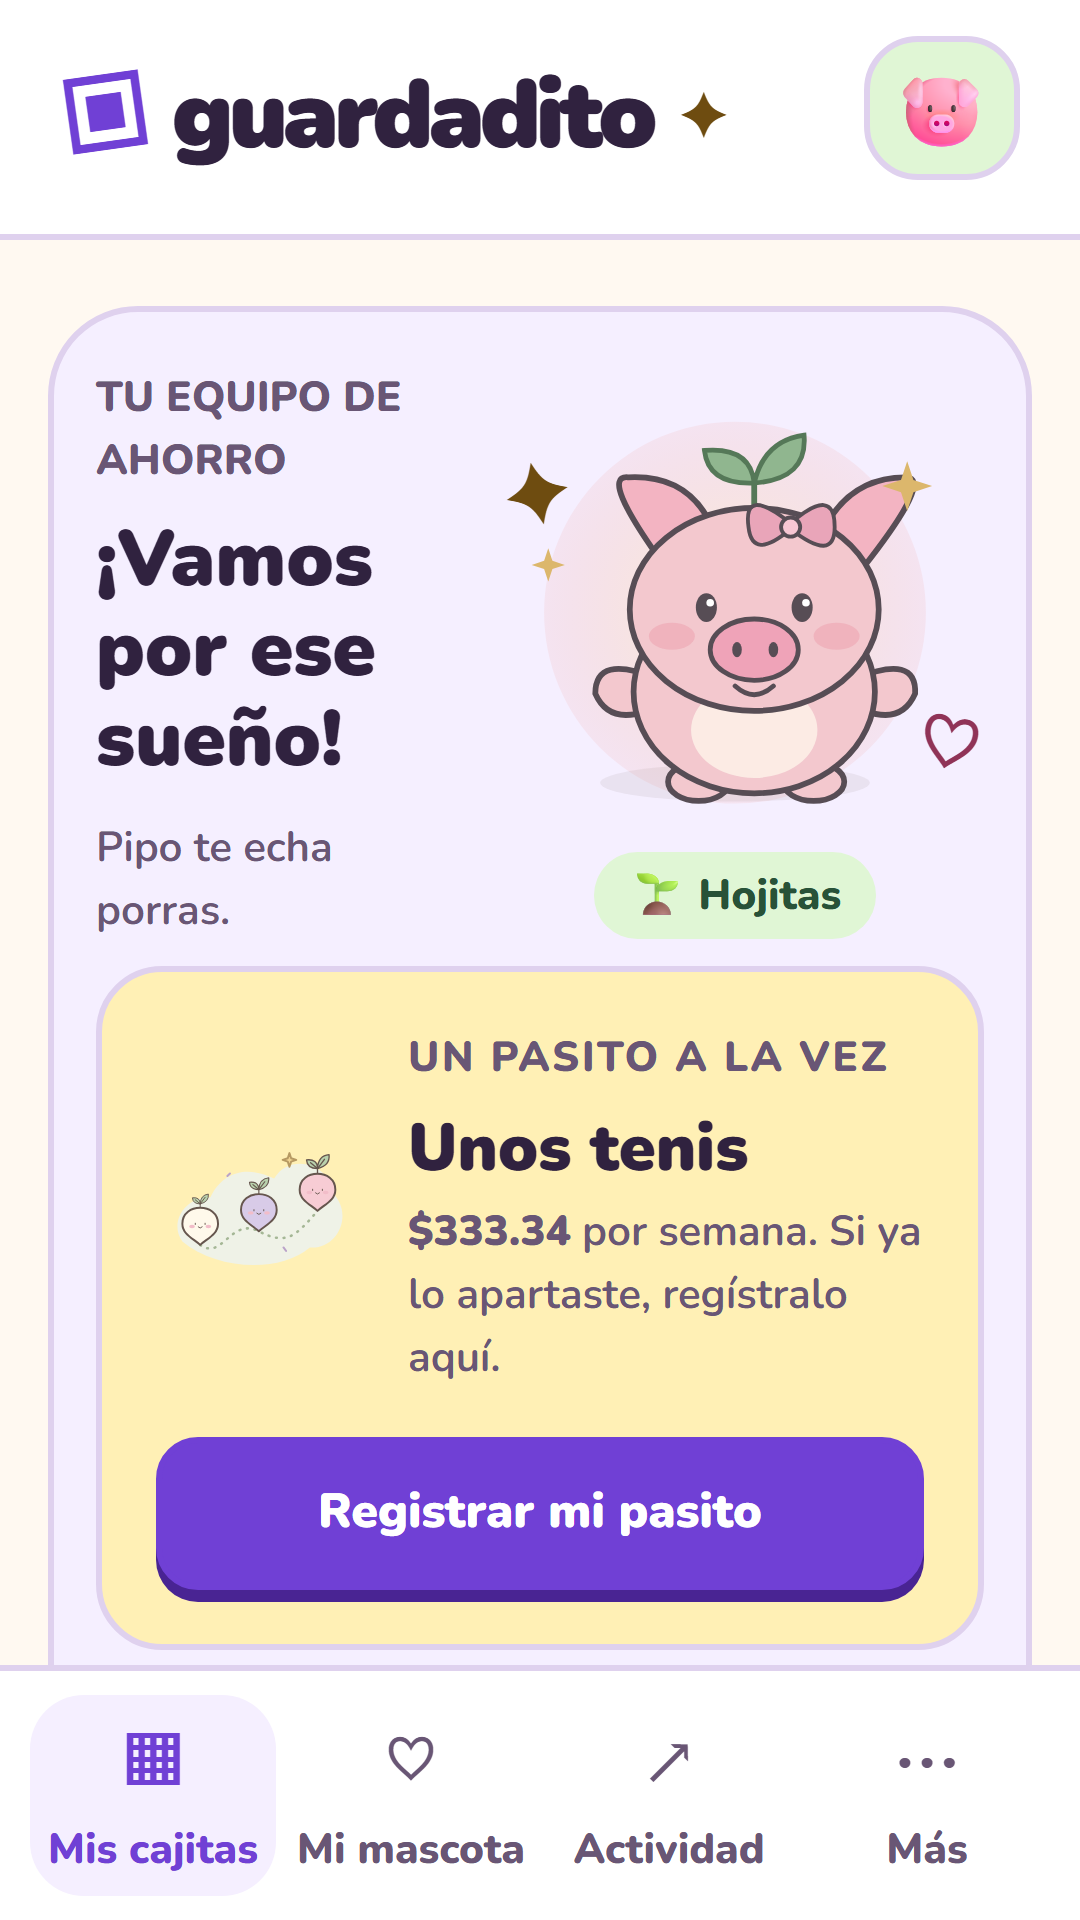
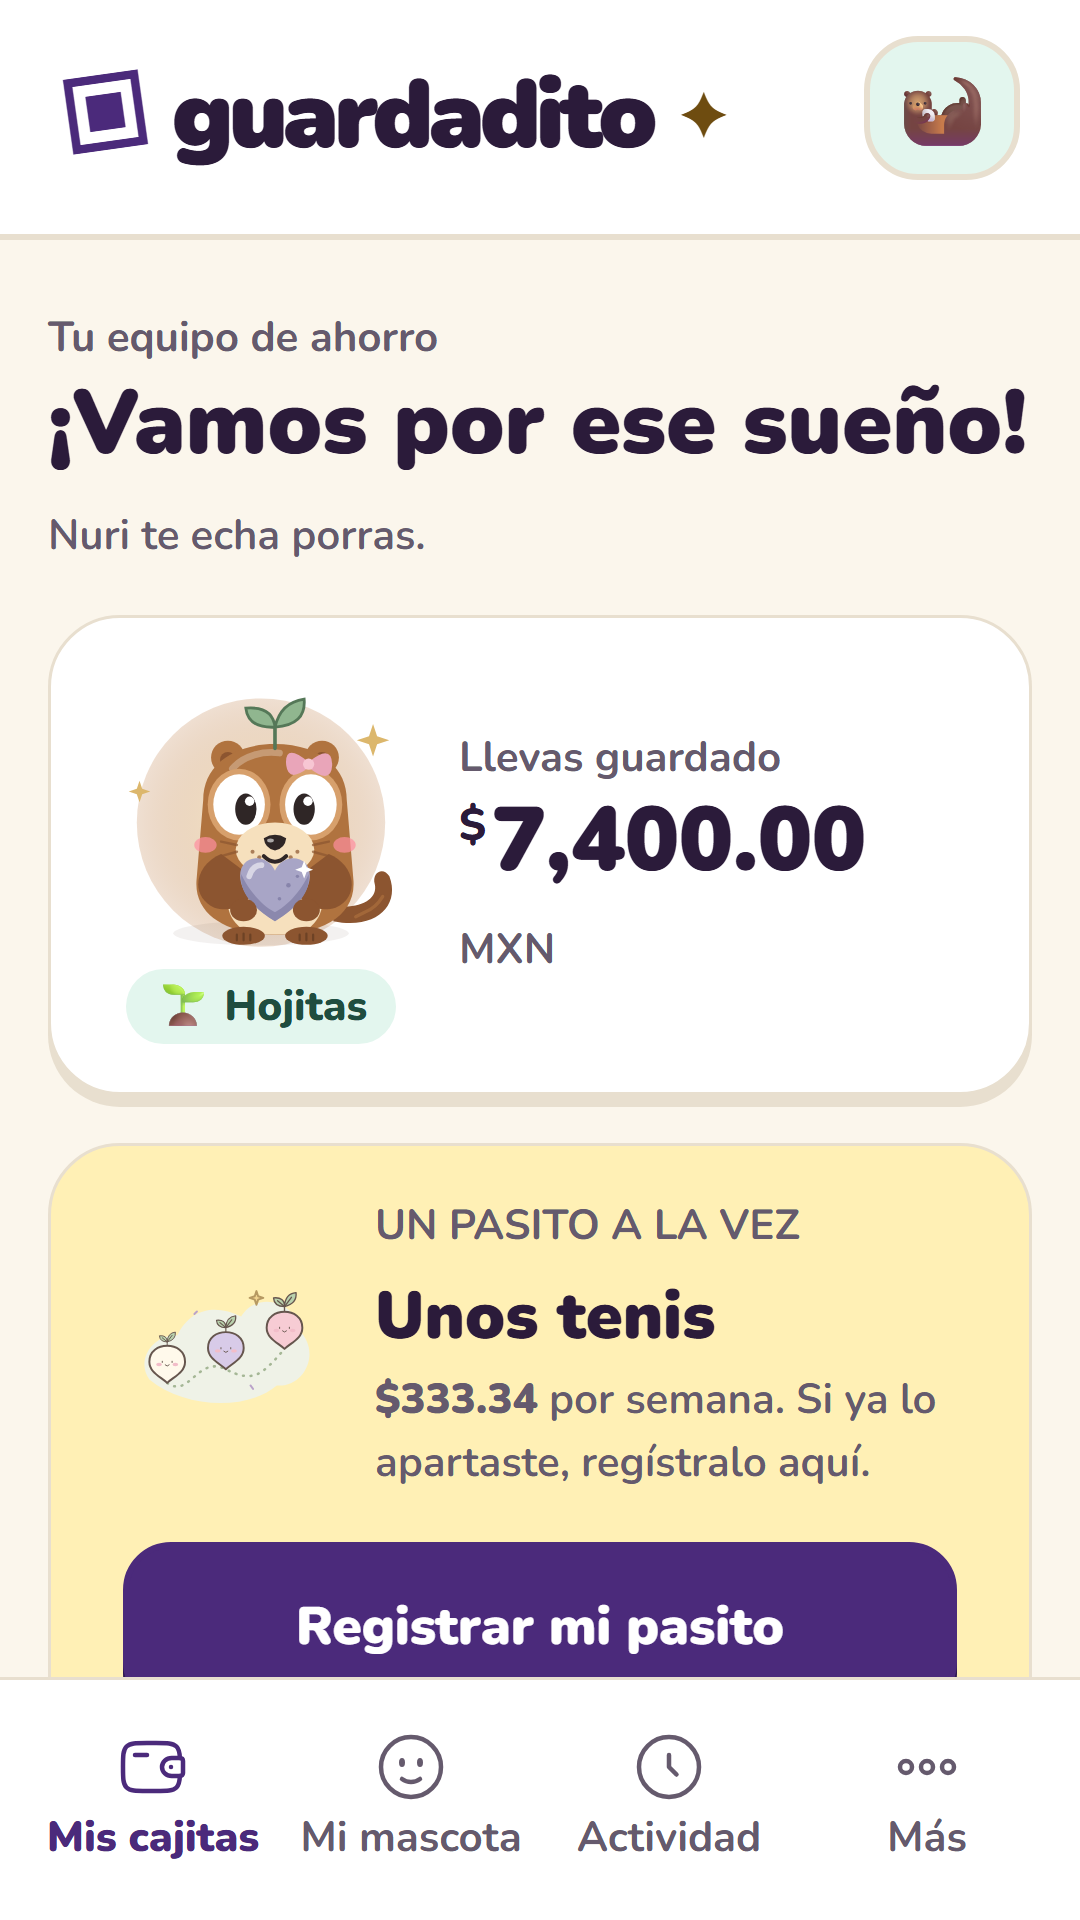
Lista para Play: capturas nuevas, privacidad al día y Android en el CI (v0.18)
- versionCode 18 / 0.18.0.
- Barra de estado DEFAULT (ya no desaparece en modo oscuro) y fondo del
  splash en el color del tema nuevo (#f8f6f1).
- scripts/play-assets.mjs compila la versión pública y toma las capturas del
  rediseño con Nuri; el gráfico destacado usa los colores de la app y la
  mascota tal como la dibuja.
- privacidad.html y borrar-cuenta.html: solo mayores de 18, sin conexión a
  Gmail, el registro de errores que vive en el teléfono, y qué se borra
  exactamente (también lo que registró la pareja).
- docs/play/README.md al día.
- CI: un trabajo que compila el APK de Android en cada cambio.

diff --git a/public/privacidad.html b/public/privacidad.html
@@ -72,7 +72,7 @@
     <main>
       <p class="muted">Guardadito · Aviso de privacidad</p>
       <h1>Tu ahorro es tuyo. Tus datos también.</h1>
-      <p class="muted">Última actualización: 18 de octubre de 2026</p>
+      <p class="muted">Última actualización: 24 de octubre de 2026</p>
 
       <p>
         Guardadito es una app para registrar tus metas de ahorro, sola o en
@@ -87,6 +87,11 @@
         mascota se guardan solo en tu teléfono. No los vemos ni salen de él,
         salvo que tú descargues un respaldo.
       </p>
+      <p>
+        Si la app tiene un error, guarda en tu teléfono el mensaje del error
+        (nunca tus cajitas) para que puedas mandárnoslo si nos escribes desde
+        Más → Ayuda y comentarios. No se envía solo.
+      </p>
 
       <h2>Con cuenta, esto es lo que guardamos</h2>
       <div class="table">
@@ -98,7 +103,7 @@
           </tr>
           <tr>
             <td>Correo, nombre y contraseña (la contraseña cifrada)</td>
-            <td>Entrar a tu cuenta y recuperarla</td>
+            <td>Entrar a tu cuenta, confirmar tu correo y recuperarla</td>
             <td>Solo tú. Tu pareja vinculada ve tu nombre.</td>
           </tr>
           <tr>
@@ -150,12 +155,10 @@
         de tu pareja vinculada lea tus datos.
       </p>
 
-      <h2>Conexiones opcionales</h2>
+      <h2>Sin conexiones a otras cuentas</h2>
       <p>
-        Si tú lo activas, Guardadito puede leer los correos de comprobantes de
-        depósito de Nu o Mercado Pago en Gmail (solo lectura). Lo hace para
-        proponerte registrar ese ahorro. Solo se usa el monto y la fecha;
-        puedes desconectarlo cuando quieras.
+        Guardadito no se conecta a tu correo, a tu banco ni a otras apps. Lo
+        que registras lo escribes tú.
       </p>
 
       <h2>Tus derechos y cómo borrar todo</h2>
@@ -167,7 +170,8 @@
         <li>
           <strong>Borrar tu cuenta:</strong> Más → Mi cuenta → «Borrar mi
           cuenta». Se borran la cuenta, tu copia en la nube, tus aportes en
-          cajitas de pareja y el vínculo.
+          cajitas de pareja, las sorpresas que mandaste, tu CLABE, tus códigos
+          sin usar y el vínculo.
           <a href="borrar-cuenta.html">Instrucciones completas</a>.
         </li>
         <li>
@@ -180,19 +184,20 @@
         oposición (ARCO) desde la app o escribiéndonos.
       </p>
 
-      <h2>Menores de edad</h2>
+      <h2>Edad</h2>
       <p>
-        Guardadito puede usarse en familia con un adulto de confianza como
-        guardián. No pedimos más datos de los descritos arriba.
+        Guardadito es para personas mayores de 18 años. No buscamos ni pedimos
+        datos de menores de edad.
       </p>
 
       <h2>Contacto</h2>
       <p>
-        Dudas o solicitudes:
+        Dudas o solicitudes: desde la app en Más → Ayuda y comentarios, o en
         <a href="https://github.com/GERARDOBR01/CAJITAS-/issues"
           >github.com/GERARDOBR01/CAJITAS-/issues</a
-        >. Si cambiamos este aviso, la app y esta página mostrarán la nueva
-        fecha.
+        >
+        (sin escribir datos personales en público). Si cambiamos este aviso,
+        esta página mostrará la nueva fecha.
       </p>
     </main>
   </body>

diff --git a/public/borrar-cuenta.html b/public/borrar-cuenta.html
@@ -75,11 +75,15 @@
           Tu vínculo de pareja, las sorpresas que mandaste, tu CLABE si eras
           guardián, tus avisos de depósito y tus aportes a cajitas en pareja.
         </li>
+        <li>Los códigos de pareja que creaste y nadie usó.</li>
         <li>Los teléfonos registrados para recibir avisos.</li>
       </ul>
       <p>
-        Se borra al momento; no guardamos copias. Las cajitas que están solo en
-        tu teléfono se quedan ahí hasta que desinstales la app. Antes puedes
+        Se borra al momento; no guardamos copias. Lo que registró tu pareja
+        (sus aportes y las sorpresas que te mandó) es de su cuenta y deja de
+        estar vinculado a ti; si quieres que también se borre, pídenoslo. Las
+        cajitas que están solo en tu teléfono se quedan ahí hasta que
+        desinstales la app o las borres al cerrar sesión. Antes puedes
         descargar un respaldo en Más → Respaldo.
       </p>
       <h2>¿Olvidaste tu contraseña o ya no tienes la app?</h2>

diff --git a/docs/play/README.md b/docs/play/README.md
@@ -15,7 +15,8 @@ Todo lo que pide Play Console, listo para copiar. Paquete: `mx.guardadito.ahorro
 - **Llave de subida**: `C:\Users\gerar\Documents\Guardadito-Play\upload-key.jks`, con su contraseña en `LEEME-llave.txt`. **Haz una copia de esa carpeta en una USB o en tu nube privada.** En GitHub vive como secreto del repositorio y nunca entra al código.
   - SHA-256 del certificado de subida: `38:31:31:55:4A:E5:3D:58:8F:8B:FF:26:6A:D6:BC:0A:19:87:A1:8E:90:D7:2E:76:96:CC:E1:A7:D6:91:CC:23`
 - Activa **Play App Signing** (viene por defecto): Google guarda la llave final y tú solo usas la de subida. Si la pierdes, Play permite reiniciarla.
-- Cada versión nueva necesita un `versionCode` mayor en `android/app/build.gradle`. Hoy es 15 (0.15.0).
+- Cada versión nueva necesita un `versionCode` mayor en `android/app/build.gradle`. Hoy es 18 (0.18.0).
+- La app de la tienda es la versión pública: sin Gmail, Bitso, Banxico ni el APK de prueba (`VITE_OWNER_TOOLS` apagado en el modo `native`).
 
 ## 3. Ficha de la tienda
 
@@ -48,9 +49,9 @@ PRIVADA DESDE EL INICIO
 Sin cuenta, todo se queda en tu teléfono. Con cuenta, solo tú y tu pareja vinculada ven sus datos. Sin anuncios y sin vender datos.
 ```
 
-**Categoría**: Finanzas · **Etiquetas**: ahorro, presupuesto · **Correo de contacto**: el de tu cuenta de desarrollador · **Sitio web**: https://gerardobr01.github.io/CAJITAS-/
+**Categoría**: Finanzas · **Etiquetas**: ahorro, presupuesto · **Correo de contacto**: el correo nuevo de Guardadito (el mismo que va en `CONTACT_EMAIL`, `src/support.js`) · **Sitio web**: https://gerardobr01.github.io/CAJITAS-/
 
-**Gráficos** (en `docs/play/assets/`, se regeneran con `npm run build && node scripts/play-assets.mjs`):
+**Gráficos** (en `docs/play/assets/`, se regeneran con `node scripts/play-assets.mjs`, que compila la versión pública y toma las capturas):
 - Ícono 512×512: `public/icon-512.png`
 - Gráfico destacado 1024×500: `grafico-destacado.png`
 - Capturas de teléfono 1080×1920: `1-inicio.png` a `5-mas.png`
